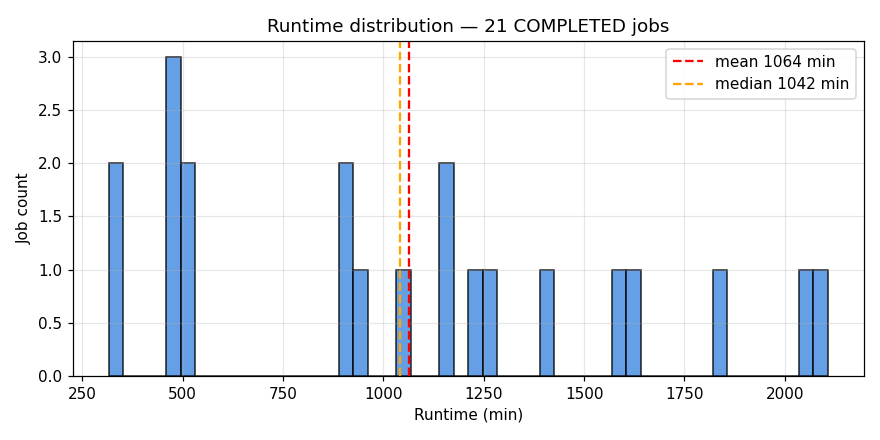
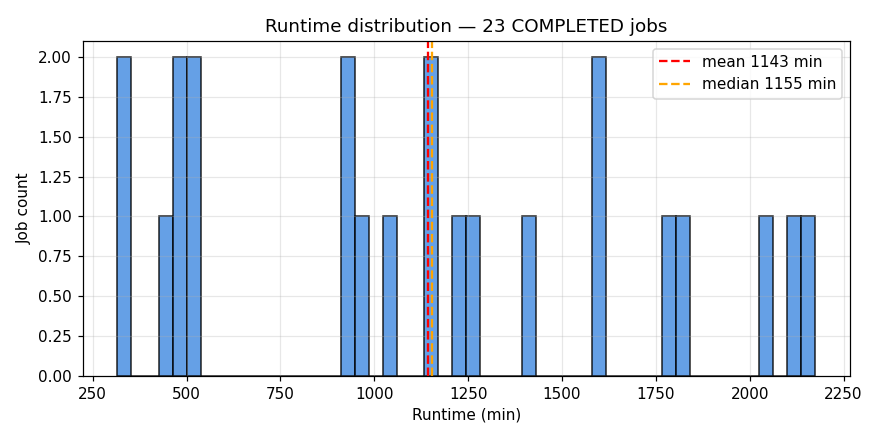
auto: 2026-09-25 00:08:32

diff --git a/index.html b/index.html
@@ -24,29 +24,29 @@ tr:nth-child(even) { background: #fafafa; }
 </style>
 </head><body>
 <h1>AF3 Campaign Dashboard</h1>
-<p class="stamp">Last updated: <strong>2026-09-24 23:08 EDT</strong> · regenerated on the cluster hourly · this page auto-reloads every 30 min</p>
+<p class="stamp">Last updated: <strong>2026-09-25 00:08 EDT</strong> · regenerated on the cluster hourly · this page auto-reloads every 30 min</p>
 
 <div class="cards">
-  <div class="card"><div class="v">1,198</div><div class="l">Total COMPLETED pairs</div></div>
-  <div class="card"><div class="v">937</div><div class="l">Done today</div></div>
-  <div class="card"><div class="v">966</div><div class="l">Last 24 h rate</div></div>
-  <div class="card"><div class="v">20 / 5</div><div class="l">Running / Pending now</div></div>
+  <div class="card"><div class="v">1,233</div><div class="l">Total COMPLETED pairs</div></div>
+  <div class="card"><div class="v">152</div><div class="l">Done today</div></div>
+  <div class="card"><div class="v">968</div><div class="l">Last 24 h rate</div></div>
+  <div class="card"><div class="v">18 / 5</div><div class="l">Running / Pending now</div></div>
 </div>
 
 <h2>Live queue</h2>
 <div class="plots">
   <div>
-    <h3>RUNNING (20)</h3>
+    <h3>RUNNING (18)</h3>
     <div class="queue-table">
       <table><thead><tr><th>Job</th><th>Elapsed</th><th>Left</th><th>Reason / Node</th></tr></thead>
-      <tbody><tr><td>af3_p059_b001</td><td>8:29</td><td>1-23:51:31</td><td>alphagpu52</td></tr><tr><td>af3_p058_b002</td><td>1:08:36</td><td>1-22:51:24</td><td>alphagpu51</td></tr><tr><td>af3_p058_b001</td><td>1:46:25</td><td>1-22:13:35</td><td>alphagpu53</td></tr><tr><td>af3_p057_b002</td><td>1:52:01</td><td>1-22:07:59</td><td>alphagpu53</td></tr><tr><td>af3_p057_b001</td><td>1:59:16</td><td>1-22:00:44</td><td>alphagpu53</td></tr><tr><td>af3_p056_b002</td><td>2:02:35</td><td>1-21:57:25</td><td>alphagpu51</td></tr><tr><td>af3_p056_b001</td><td>2:13:57</td><td>1-21:46:03</td><td>alphagpu53</td></tr><tr><td>af3_p055_b002</td><td>2:17:19</td><td>1-21:42:41</td><td>alphagpu54</td></tr><tr><td>af3_p055_b001</td><td>7:19:55</td><td>1-16:40:05</td><td>alphagpu52</td></tr><tr><td>af3_p054_b002</td><td>7:21:03</td><td>1-16:38:57</td><td>alphagpu51</td></tr><tr><td>af3_p054_b001</td><td>7:36:50</td><td>1-16:23:10</td><td>alphagpu52</td></tr><tr><td>af3_p053_b002</td><td>7:43:45</td><td>1-16:16:15</td><td>alphagpu54</td></tr><tr><td>af3_p053_b001</td><td>7:46:33</td><td>1-16:13:27</td><td>alphagpu53</td></tr><tr><td>af3_p049_b001</td><td>1-05:37:33</td><td>18:22:27</td><td>alphagpu52</td></tr><tr><td>af3_p048_b001</td><td>1-06:40:24</td><td>17:19:36</td><td>alphagpu51</td></tr><tr><td>af3_p047_b001</td><td>1-06:57:15</td><td>17:02:45</td><td>alphagpu54</td></tr><tr><td>af3_p045_b001</td><td>1-11:58:23</td><td>12:01:37</td><td>alphagpu52</td></tr><tr><td>af3_p052_b001</td><td>1-04:57:52</td><td>19:02:08</td><td>alphagpu54</td></tr><tr><td>af3_p051_b001</td><td>1-05:29:41</td><td>18:30:19</td><td>alphagpu54</td></tr><tr><td>af3_p050_b001</td><td>1-05:34:55</td><td>18:25:05</td><td>alphagpu52</td></tr></tbody></table>
+      <tbody><tr><td>af3_p059_b001</td><td>1:09:03</td><td>1-22:50:57</td><td>alphagpu52</td></tr><tr><td>af3_p058_b002</td><td>2:09:10</td><td>1-21:50:50</td><td>alphagpu51</td></tr><tr><td>af3_p058_b001</td><td>2:46:59</td><td>1-21:13:01</td><td>alphagpu53</td></tr><tr><td>af3_p057_b002</td><td>2:52:35</td><td>1-21:07:25</td><td>alphagpu53</td></tr><tr><td>af3_p057_b001</td><td>2:59:50</td><td>1-21:00:10</td><td>alphagpu53</td></tr><tr><td>af3_p056_b002</td><td>3:03:09</td><td>1-20:56:51</td><td>alphagpu51</td></tr><tr><td>af3_p056_b001</td><td>3:14:31</td><td>1-20:45:29</td><td>alphagpu53</td></tr><tr><td>af3_p055_b002</td><td>3:17:53</td><td>1-20:42:07</td><td>alphagpu54</td></tr><tr><td>af3_p055_b001</td><td>8:20:29</td><td>1-15:39:31</td><td>alphagpu52</td></tr><tr><td>af3_p054_b002</td><td>8:21:37</td><td>1-15:38:23</td><td>alphagpu51</td></tr><tr><td>af3_p054_b001</td><td>8:37:24</td><td>1-15:22:36</td><td>alphagpu52</td></tr><tr><td>af3_p053_b002</td><td>8:44:19</td><td>1-15:15:41</td><td>alphagpu54</td></tr><tr><td>af3_p053_b001</td><td>8:47:07</td><td>1-15:12:53</td><td>alphagpu53</td></tr><tr><td>af3_p049_b001</td><td>1-06:38:07</td><td>17:21:53</td><td>alphagpu52</td></tr><tr><td>af3_p048_b001</td><td>1-07:40:58</td><td>16:19:02</td><td>alphagpu51</td></tr><tr><td>af3_p047_b001</td><td>1-07:57:49</td><td>16:02:11</td><td>alphagpu54</td></tr><tr><td>af3_p052_b001</td><td>1-05:58:26</td><td>18:01:34</td><td>alphagpu54</td></tr><tr><td>af3_p051_b001</td><td>1-06:30:15</td><td>17:29:45</td><td>alphagpu54</td></tr></tbody></table>
     </div>
   </div>
   <div>
     <h3>PENDING (5)</h3>
     <div class="queue-table">
       <table><thead><tr><th>Job</th><th>Wait</th><th>Limit</th><th>Reason</th></tr></thead>
-      <tbody><tr><td>af3_p060_b002</td><td>0:00</td><td>2-00:00:00</td><td>(Priority)</td></tr><tr><td>af3_p060_b001</td><td>0:00</td><td>2-00:00:00</td><td>(Priority)</td></tr><tr><td>af3_p059_b002</td><td>0:00</td><td>2-00:00:00</td><td>(Priority)</td></tr><tr><td>af3_p061_b002</td><td>0:00</td><td>2-00:00:00</td><td>(Priority)</td></tr><tr><td>af3_p061_b001</td><td>0:00</td><td>2-00:00:00</td><td>(Priority)</td></tr></tbody></table>
+      <tbody><tr><td>af3_p061_b002</td><td>0:00</td><td>2-00:00:00</td><td>(Priority)</td></tr><tr><td>af3_p061_b001</td><td>0:00</td><td>2-00:00:00</td><td>(Priority)</td></tr><tr><td>af3_p060_b002</td><td>0:00</td><td>2-00:00:00</td><td>(Priority)</td></tr><tr><td>af3_p060_b001</td><td>0:00</td><td>2-00:00:00</td><td>(Priority)</td></tr><tr><td>af3_p059_b002</td><td>0:00</td><td>2-00:00:00</td><td>(Priority)</td></tr></tbody></table>
     </div>
   </div>
 </div>
@@ -62,7 +62,7 @@ tr:nth-child(even) { background: #fafafa; }
 </div>
 
 <h2>All-time job state breakdown</h2>
-<table><thead><tr><th>State</th><th>Count</th></tr></thead><tbody><tr><td>COMPLETED</td><td>21</td></tr><tr><td>RUNNING</td><td>20</td></tr><tr><td>PENDING</td><td>5</td></tr></tbody></table>
+<table><thead><tr><th>State</th><th>Count</th></tr></thead><tbody><tr><td>COMPLETED</td><td>23</td></tr><tr><td>RUNNING</td><td>18</td></tr><tr><td>PENDING</td><td>5</td></tr></tbody></table>
 
 <p class="stamp"><small>Generated by <code>generate.py</code> on the SUNY HPC cluster.
 Source / regeneration policy at <a href="https://github.com/matvei-lukianov/af3-dashboard">github.com/matvei-lukianov/af3-dashboard</a></small></p>
